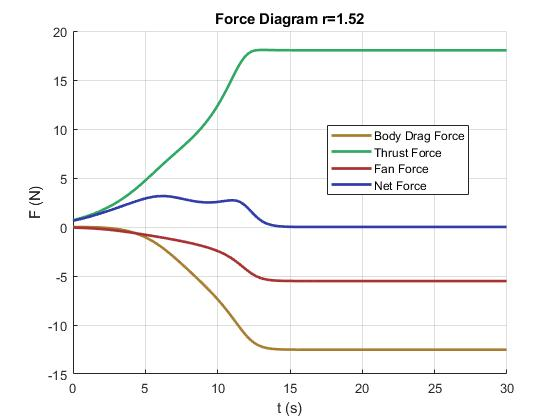
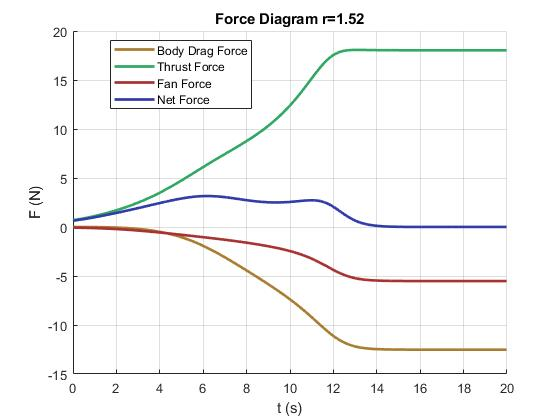
Focused on a Smaller Time Interval

diff --git a/Main.m b/Main.m
@@ -14,7 +14,7 @@ end
 fan = GetAPC14x7E();
 air = Air(5, 1.225);
 vehicle = Vehicle(fan, air, 0.2, 0.35, 1.52);
-v = Simulate(vehicle, 30);
+v = Simulate(vehicle, 20);
 [Vmin, Vmax] = vehicle.SpeedBoundary();
 fprintf(fileID, 'r=%.2f Vt=%.1fm/s B=[%.1f, %.1f]m/s\n', vehicle.r, max(v), Vmin, Vmax);
 
